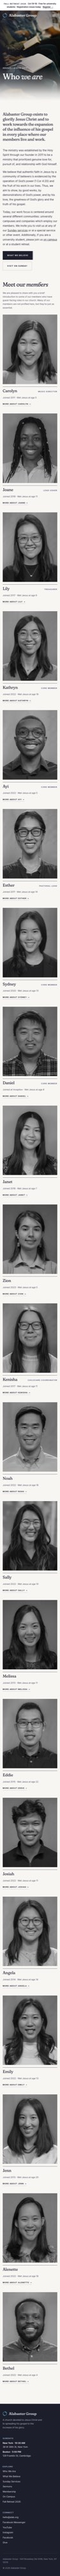
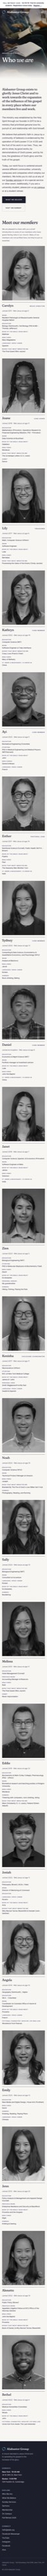
Show all member details; narrow sidebar on Student Membership
- Meet our members: remove the 'More about' toggle, all facts visible
- Student Membership: 220px sticky contents sidebar, wide text column
- Test plan screenshots refreshed in docs/test-plan/

diff --git a/public/css/site.css b/public/css/site.css
@@ -525,3 +525,9 @@ body, .prose { font-size: var(--fs-body); }
 /* Subpage covers: one height for every page (taller than before, not full-screen). */
 .hero--page, .hero--tall { min-height: 740px; }
 @media (max-width: 900px) { .hero--page, .hero--tall { min-height: 580px; } }
+/* Long-form pages: narrow sticky sidebar, wide readable text column. */
+.doc { display: grid; grid-template-columns: 220px minmax(0, 1fr); gap: 72px; align-items: start; }
+.doc__toc { position: sticky; top: 40px; }
+.doc .prose { max-width: 820px; }
+.person dl { margin-top: 2px; }
+@media (max-width: 900px) { .doc { grid-template-columns: 1fr; gap: 32px; } .doc__toc { position: static; } }

diff --git a/src/pages/student-membership.html b/src/pages/student-membership.html
@@ -14,8 +14,8 @@ description: Core Team, our student membership, is our vision of personal discip
 </section>
 
 <section class="wrap section">
-<div class="split">
-<nav class="stack gap-s" aria-label="On this page" style="position: sticky; top: 40px;">
+<div class="doc">
+<nav class="stack gap-s doc__toc" aria-label="On this page">
 <span class="eyebrow">On this page</span>
 <a class="link-u" href="#introduction" style="align-self: flex-start; border: 0;">Introduction</a>
 <a class="link-u" href="#who-its-for" style="align-self: flex-start; border: 0;">Who it’s for</a>

diff --git a/src/pages/who-we-are.html b/src/pages/who-we-are.html
@@ -34,7 +34,7 @@ description: Alabaster Group exists to glorify Jesus Christ and to work towards 
 <div class="person__img"><img src="{{this.img}}" alt="Portrait of {{this.name}}" loading="lazy"></div>
 <div class="person__name"><h3 class="h4">{{this.name}}</h3><span class="person__role">{{this.role}}</span></div>
 <span class="person__key">{{this.key}}</span>
-<details><summary>More about {{this.first}}</summary><dl>{{this.more}}</dl></details>
+<dl>{{this.more}}</dl>
 </article>{{/each}}
 </div>
 </section>

diff --git a/docs/test-plan/README.md b/docs/test-plan/README.md
@@ -1,6 +1,6 @@
 # Test plan
 
-Generated 2026-10-01 00:25 by `scripts/test_plan.py` from a fresh build.
+Generated 2026-10-01 00:27 by `scripts/test_plan.py` from a fresh build.
 
 ## Automated checks
 
